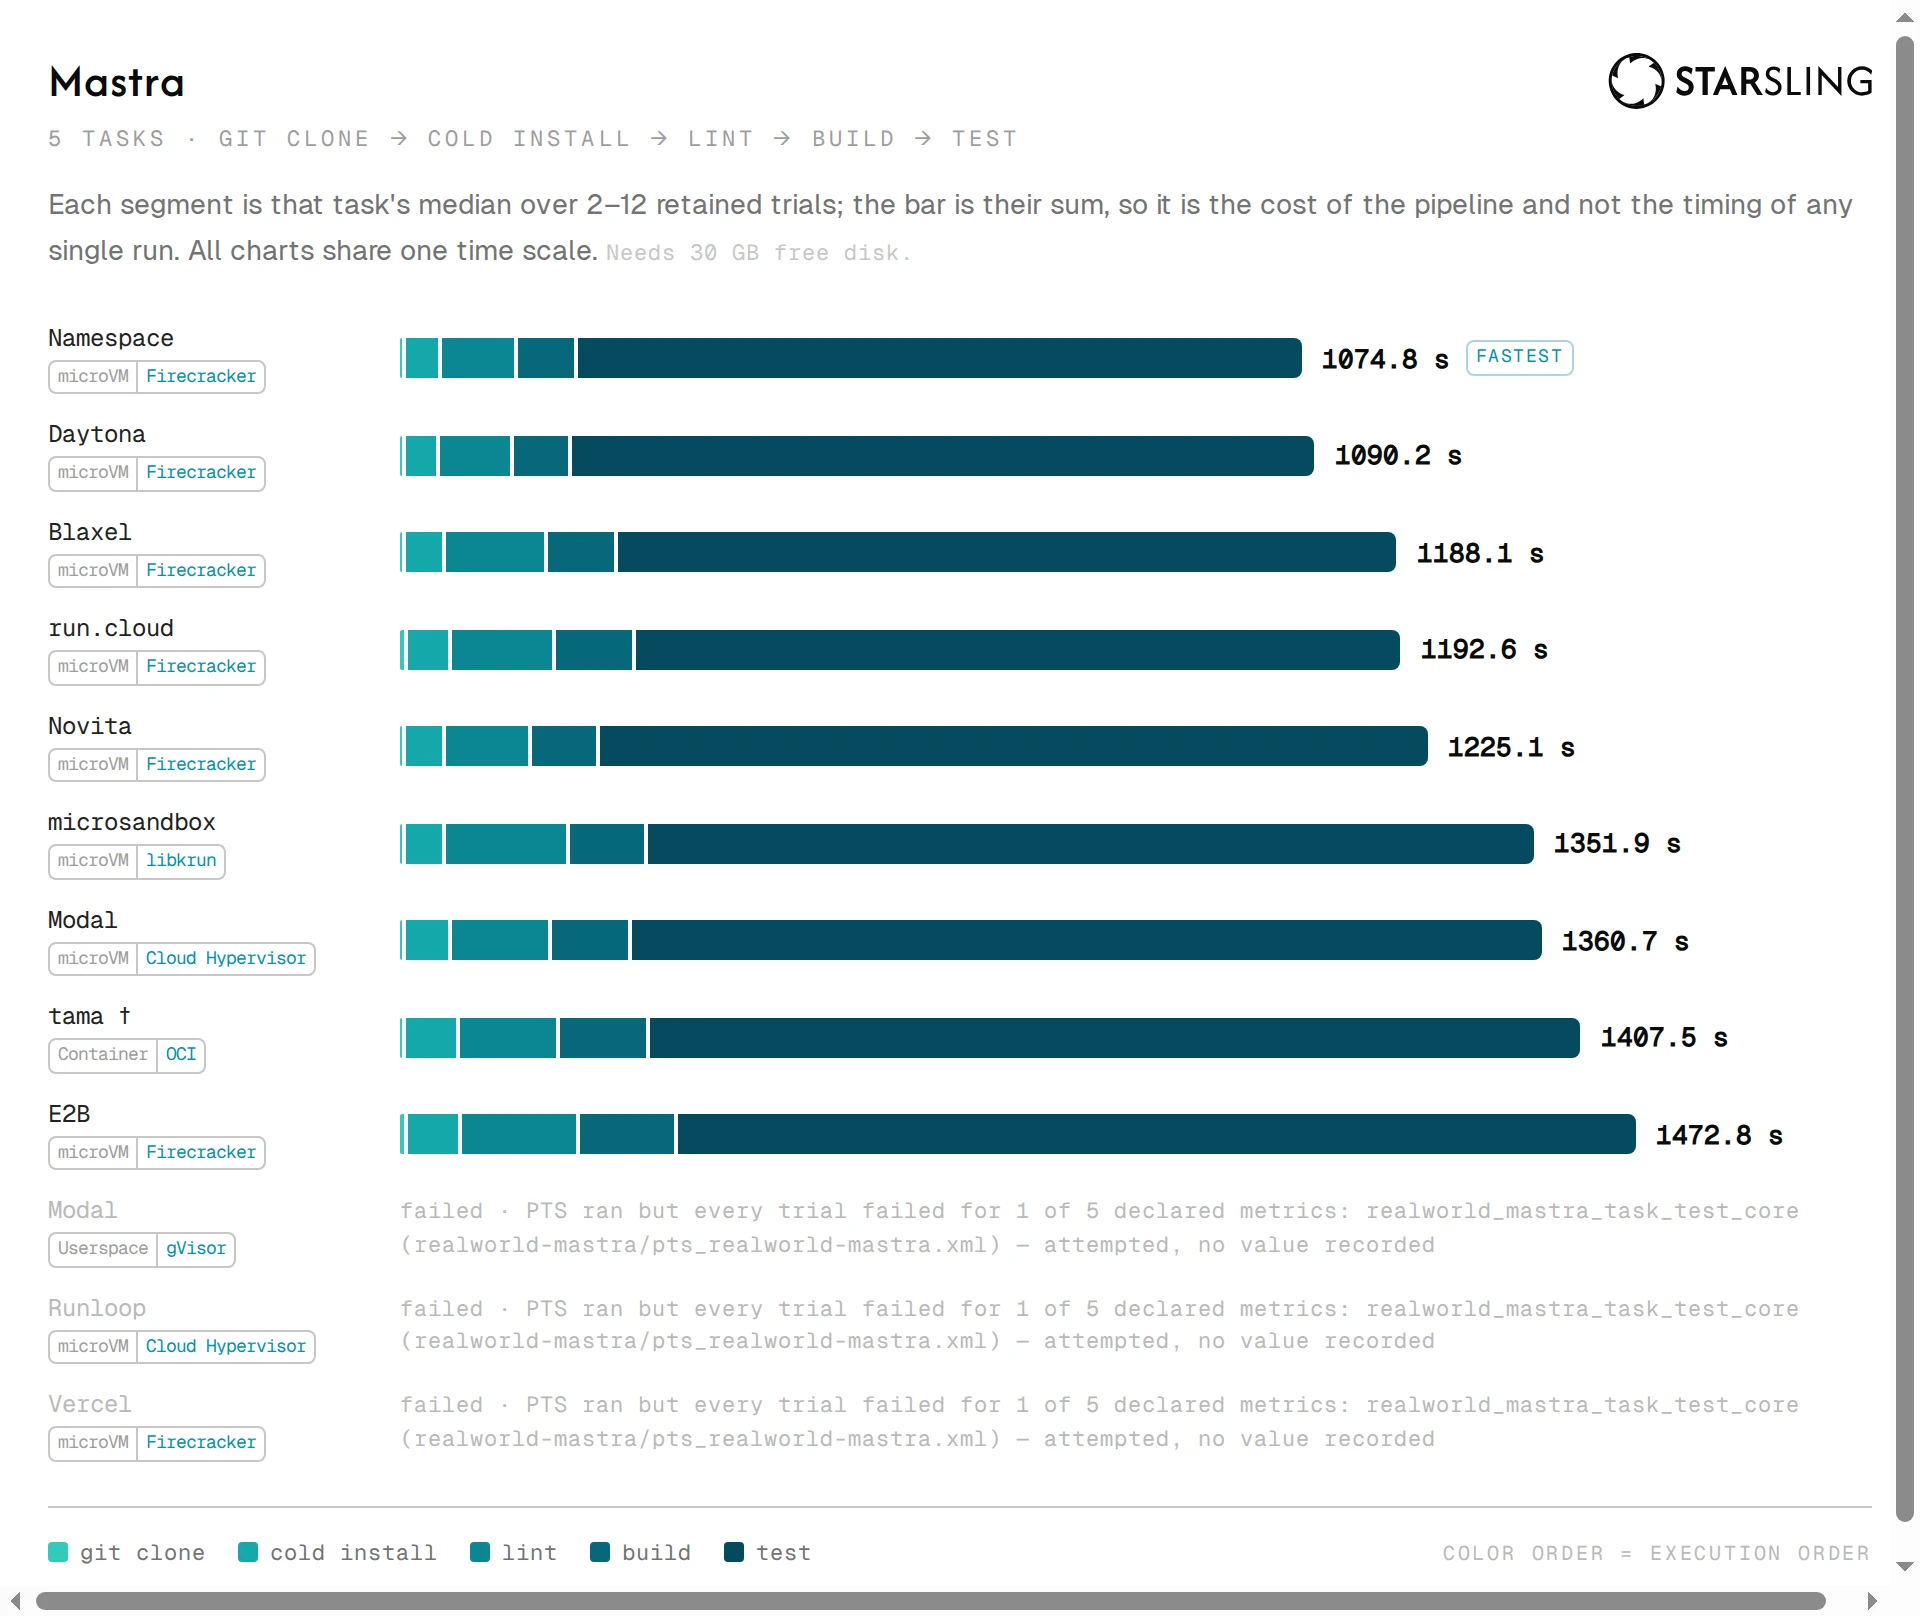
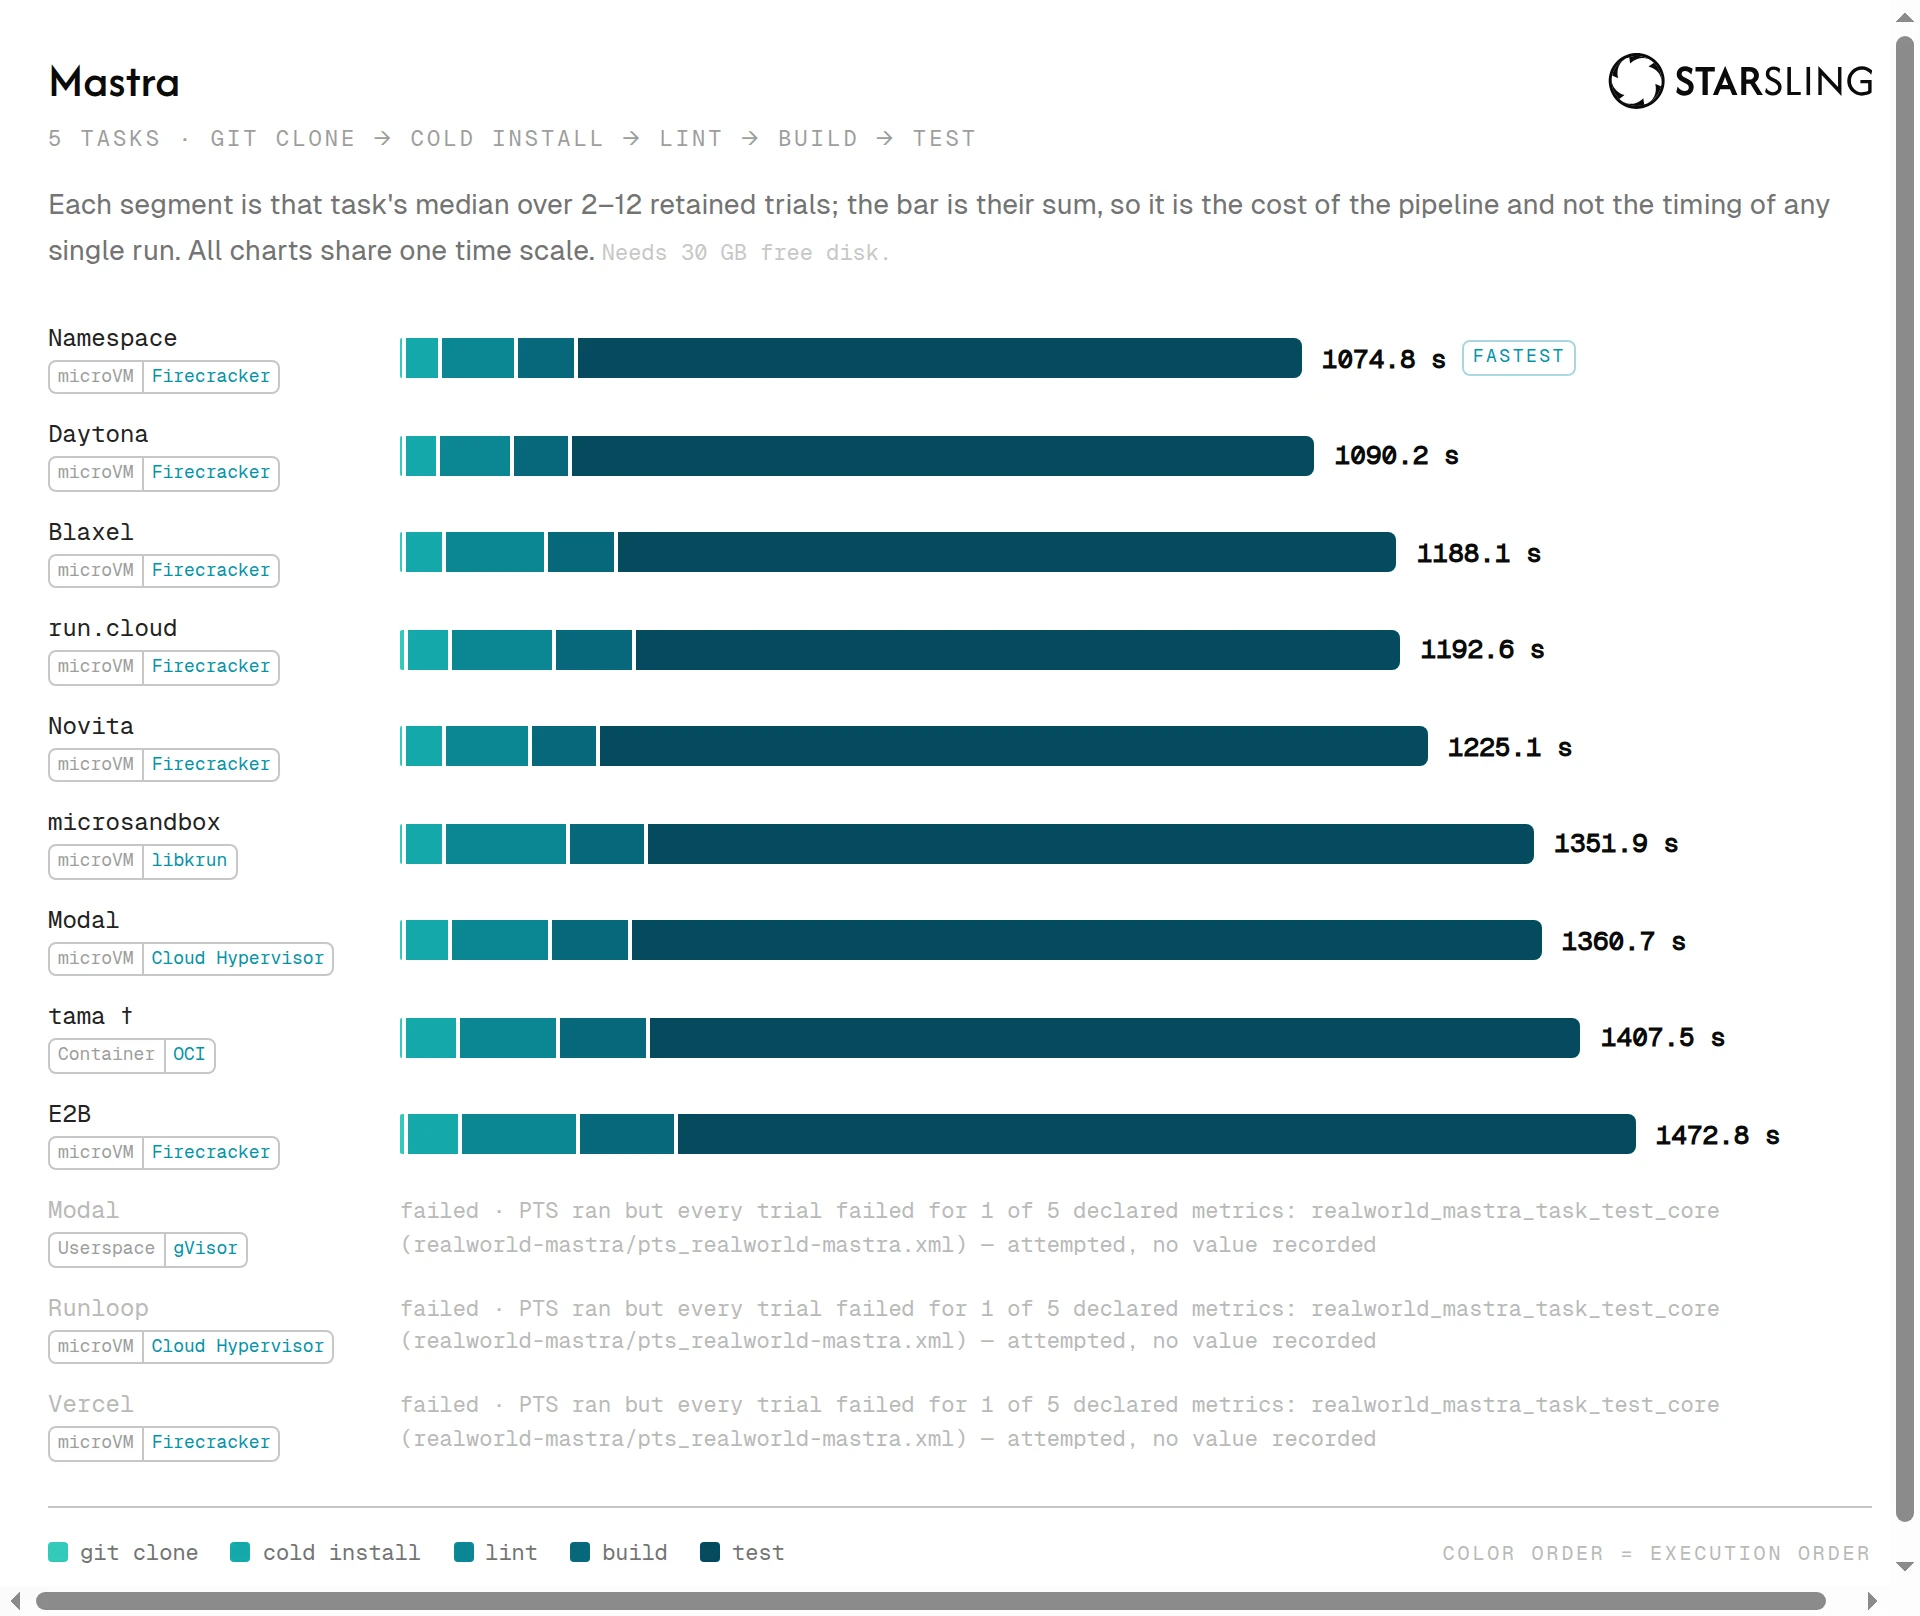
chore(leaderboard): regenerate from run 34804682438 with metric charts
`bun apps/cli/src/bin/leaderboard.ts data/dataset/runs/34804682438.json
LEADERBOARD.md` — 27 new metric charts under docs/figures/ (one per
ranked synthetic metric, named by catalog id) and the three pipeline
charts re-rasterised by the same Chrome. The Markdown links every chart;
the artifact gate holds the directory to exactly that set.

Claude-Session: https://claude.ai/code/session_01Xuh5srRQpooM58Q2o91SW3

diff --git a/LEADERBOARD.md b/LEADERBOARD.md
@@ -31,6 +31,11 @@ whole pipeline on one environment and each segment a task. Its per-task rankings
 intervals and trial counts every bar is built from — are still here, one triangle down: the charts
 are what the section is FOR, and the tables are how you check them.
 
+**Every synthetic metric is charted too.** Each dimension shows its headline metric's ranked bar
+chart above the triangle, and every other metric's chart sits beside its table inside. Bars are
+the same medians the tables print, best first, with the 95% interval as a whisker; each chart
+scales to its own largest value, so lengths compare within a chart and never across two.
+
 ## Providers in this run
 
 Each provider's isolation technology — the **declared** technology is authoritative; **detected**
@@ -506,6 +511,8 @@ _Namespace and Daytona (VM) share the top on this metric (lower is better)._
 
 ## cpu
 
+<img src="docs/figures/node_web_tooling_runs_per_s.webp" width="960" alt="Node.js web tooling: 12 environments ranked best-first, with 95% intervals">
+
 <details>
 <summary><strong>1 synthetic metric</strong> · headline: Node.js web tooling</summary>
 
@@ -543,6 +550,8 @@ IOPS · higher is better
 
 _Namespace leads · ~1.2× Blaxel on median (higher is better)._
 
+<img src="docs/figures/fio_type_random_read_engine_linux_aio_direct_no_block_size_4kb_job_count_1_disk_target_default_test_directory_iops.webp" width="960" alt="fio rand read 4KB, buffered (IOPS): 12 environments ranked best-first, with 95% intervals">
+
 | Rank | Provider | fio rand read 4KB, buffered (IOPS) (IOPS) | 95% bootstrap interval | Sandboxes | Trials | Note |
 | ---: | --- | ---: | ---: | ---: | ---: | --- |
 | 1 | Namespace | 66200 | 66200 – 69800 | 3 | 6 | — |
@@ -563,6 +572,8 @@ _Namespace leads · ~1.2× Blaxel on median (higher is better)._
 MB/s · higher is better
 
 _Namespace leads · ~1.2× Blaxel on median (higher is better)._
+
+<img src="docs/figures/fio_type_random_read_engine_linux_aio_direct_no_block_size_4kb_job_count_1_disk_target_default_test_directory_mb_per_s.webp" width="960" alt="fio rand read 4KB, buffered (MB/s): 12 environments ranked best-first, with 95% intervals">
 
 | Rank | Provider | fio rand read 4KB, buffered (MB/s) (MB/s) | 95% bootstrap interval | Sandboxes | Trials | Note |
 | ---: | --- | ---: | ---: | ---: | ---: | --- |
@@ -585,6 +596,8 @@ IOPS · higher is better
 
 _Blaxel leads · ~1.2× Novita on median (higher is better)._
 
+<img src="docs/figures/fio_type_random_write_engine_linux_aio_direct_no_block_size_4kb_job_count_1_disk_target_default_test_directory_iops.webp" width="960" alt="fio rand write 4KB, buffered (IOPS): 12 environments ranked best-first, with 95% intervals">
+
 | Rank | Provider | fio rand write 4KB, buffered (IOPS) (IOPS) | 95% bootstrap interval | Sandboxes | Trials | Note |
 | ---: | --- | ---: | ---: | ---: | ---: | --- |
 | 1 | Blaxel | 302500 | 294000 – 316000 | 3 | 6 | — |
@@ -605,6 +618,8 @@ _Blaxel leads · ~1.2× Novita on median (higher is better)._
 MB/s · higher is better
 
 _Blaxel leads · ~1.2× Novita on median (higher is better)._
+
+<img src="docs/figures/fio_type_random_write_engine_linux_aio_direct_no_block_size_4kb_job_count_1_disk_target_default_test_directory_mb_per_s.webp" width="960" alt="fio rand write 4KB, buffered (MB/s): 12 environments ranked best-first, with 95% intervals">
 
 | Rank | Provider | fio rand write 4KB, buffered (MB/s) (MB/s) | 95% bootstrap interval | Sandboxes | Trials | Note |
 | ---: | --- | ---: | ---: | ---: | ---: | --- |
@@ -627,6 +642,8 @@ IOPS · higher is better
 
 _Modal (gVisor) leads · ~2.0× Daytona (VM) on median (higher is better)._
 
+<img src="docs/figures/fio_type_sequential_read_engine_linux_aio_direct_no_block_size_1mb_job_count_1_disk_target_default_test_directory_iops.webp" width="960" alt="fio seq read 1MB, buffered (IOPS): 12 environments ranked best-first, with 95% intervals">
+
 | Rank | Provider | fio seq read 1MB, buffered (IOPS) (IOPS) | 95% bootstrap interval | Sandboxes | Trials | Note |
 | ---: | --- | ---: | ---: | ---: | ---: | --- |
 | 1 | Modal (gVisor) | 22250 | 18500 – 22750 | 3 | 6 | — |
@@ -647,6 +664,8 @@ _Modal (gVisor) leads · ~2.0× Daytona (VM) on median (higher is better)._
 MB/s · higher is better
 
 _Modal (gVisor) leads · ~2.0× Daytona (VM) on median (higher is better)._
+
+<img src="docs/figures/fio_type_sequential_read_engine_linux_aio_direct_no_block_size_1mb_job_count_1_disk_target_default_test_directory_mb_per_s.webp" width="960" alt="fio seq read 1MB, buffered (MB/s): 12 environments ranked best-first, with 95% intervals">
 
 | Rank | Provider | fio seq read 1MB, buffered (MB/s) (MB/s) | 95% bootstrap interval | Sandboxes | Trials | Note |
 | ---: | --- | ---: | ---: | ---: | ---: | --- |
@@ -669,6 +688,8 @@ IOPS · higher is better
 
 _Daytona (VM) leads · ~1.2× Namespace on median (higher is better)._
 
+<img src="docs/figures/fio_type_sequential_write_engine_linux_aio_direct_no_block_size_1mb_job_count_1_disk_target_default_test_directory_iops.webp" width="960" alt="fio seq write 1MB, buffered (IOPS): 12 environments ranked best-first, with 95% intervals">
+
 | Rank | Provider | fio seq write 1MB, buffered (IOPS) (IOPS) | 95% bootstrap interval | Sandboxes | Trials | Note |
 | ---: | --- | ---: | ---: | ---: | ---: | --- |
 | 1 | Daytona (VM) | 4990 | 4884 – 5429 | 3 | 6 | — |
@@ -689,6 +710,8 @@ _Daytona (VM) leads · ~1.2× Namespace on median (higher is better)._
 MB/s · higher is better
 
 _Daytona (VM) leads · ~1.2× Namespace on median (higher is better)._
+
+<img src="docs/figures/fio_type_sequential_write_engine_linux_aio_direct_no_block_size_1mb_job_count_1_disk_target_default_test_directory_mb_per_s.webp" width="960" alt="fio seq write 1MB, buffered (MB/s): 12 environments ranked best-first, with 95% intervals">
 
 | Rank | Provider | fio seq write 1MB, buffered (MB/s) (MB/s) | 95% bootstrap interval | Sandboxes | Trials | Note |
 | ---: | --- | ---: | ---: | ---: | ---: | --- |
@@ -711,6 +734,8 @@ bogo ops/s · higher is better
 
 _Daytona (VM) leads · ~1.3× Blaxel on median (higher is better)._
 
+<img src="docs/figures/hardlink_bogo_ops_per_s.webp" width="960" alt="Hardlink throughput: 12 environments ranked best-first, with 95% intervals">
+
 | Rank | Provider | Hardlink throughput (bogo ops/s) | 95% bootstrap interval | Sandboxes | Trials | Note |
 | ---: | --- | ---: | ---: | ---: | ---: | --- |
 | 1 | Daytona (VM) | 25.34 | 25.23 – 25.98 | 3 | 6 | — |
@@ -729,6 +754,8 @@ _Daytona (VM) leads · ~1.3× Blaxel on median (higher is better)._
 </details>
 
 ## memory
+
+<img src="docs/figures/stream_type_triad.webp" width="960" alt="STREAM Triad: 12 environments ranked best-first, with 95% intervals">
 
 <details>
 <summary><strong>4 synthetic metrics</strong> · headline: STREAM Triad</summary>
@@ -760,6 +787,8 @@ MB/s · higher is better
 
 _Daytona (VM) leads · ~1.7× tama on median (higher is better)._
 
+<img src="docs/figures/stream_type_add.webp" width="960" alt="STREAM Add: 12 environments ranked best-first, with 95% intervals">
+
 | Rank | Provider | STREAM Add (MB/s) | 95% bootstrap interval | Sandboxes | Trials | Note |
 | ---: | --- | ---: | ---: | ---: | ---: | --- |
 | 1 | Daytona (VM) | 177700 | 171400 – 179400 | 3 | 6 | — |
@@ -780,6 +809,8 @@ _Daytona (VM) leads · ~1.7× tama on median (higher is better)._
 MB/s · higher is better
 
 _Daytona (VM) leads · ~1.4× tama on median (higher is better)._
+
+<img src="docs/figures/stream_type_copy.webp" width="960" alt="STREAM Copy: 12 environments ranked best-first, with 95% intervals">
 
 | Rank | Provider | STREAM Copy (MB/s) | 95% bootstrap interval | Sandboxes | Trials | Note |
 | ---: | --- | ---: | ---: | ---: | ---: | --- |
@@ -802,6 +833,8 @@ MB/s · higher is better
 
 _Daytona (VM) leads · ~1.6× tama on median (higher is better)._
 
+<img src="docs/figures/stream_type_scale.webp" width="960" alt="STREAM Scale: 12 environments ranked best-first, with 95% intervals">
+
 | Rank | Provider | STREAM Scale (MB/s) | 95% bootstrap interval | Sandboxes | Trials | Note |
 | ---: | --- | ---: | ---: | ---: | ---: | --- |
 | 1 | Daytona (VM) | 169400 | 162500 – 171000 | 3 | 6 | — |
@@ -820,6 +853,8 @@ _Daytona (VM) leads · ~1.6× tama on median (higher is better)._
 </details>
 
 ## network
+
+<img src="docs/figures/iperf_server_address_localhost_server_port_5201_duration_10_seconds_test_tcp_parallel_1.webp" width="960" alt="iperf3 loopback TCP, 1 stream: 11 environments ranked best-first, 1 disclosed as unmeasured, with 95% intervals">
 
 <details>
 <summary><strong>5 synthetic metrics</strong> · headline: iperf3 loopback TCP, 1 stream</summary>
@@ -850,6 +885,8 @@ Mbits/sec · higher is better
 
 _Novita leads · ~1.4× Blaxel on median (higher is better)._
 
+<img src="docs/figures/iperf_server_address_localhost_server_port_5201_duration_10_seconds_test_tcp_parallel_10.webp" width="960" alt="iperf3 loopback TCP, 10 streams: 11 environments ranked best-first, 1 disclosed as unmeasured, with 95% intervals">
+
 | Rank | Provider | iperf3 loopback TCP, 10 streams (Mbits/sec) | 95% bootstrap interval | Sandboxes | Trials | Note |
 | ---: | --- | ---: | ---: | ---: | ---: | --- |
 | 1 | Novita | 157020 | 139488 – 161400 | 3 | 6 | — |
@@ -869,6 +906,8 @@ _Novita leads · ~1.4× Blaxel on median (higher is better)._
 Mbits/sec · higher is better
 
 _Modal (VM) leads on median (higher is better); see notes for how ranks are decided._
+
+<img src="docs/figures/iperf_server_address_localhost_server_port_5201_duration_10_seconds_test_udp_10000mbit_objective_parallel_1.webp" width="960" alt="iperf3 loopback UDP, 10G objective: 11 environments ranked best-first, 1 disclosed as unmeasured, with 95% intervals">
 
 | Rank | Provider | iperf3 loopback UDP, 10G objective (Mbits/sec) | 95% bootstrap interval | Sandboxes | Trials | Note |
 | ---: | --- | ---: | ---: | ---: | ---: | --- |
@@ -890,6 +929,8 @@ Mbits/sec · higher is better
 
 _Vercel Sandbox leads · ~1.3× Modal (gVisor) on median (higher is better)._
 
+<img src="docs/figures/iperf_wan_direction_download.webp" width="960" alt="iperf3 WAN download: 11 environments ranked best-first, 1 disclosed as unmeasured, with 95% intervals">
+
 | Rank | Provider | iperf3 WAN download (Mbits/sec) | 95% bootstrap interval | Sandboxes | Trials | Note |
 | ---: | --- | ---: | ---: | ---: | ---: | --- |
 | 1 | Vercel Sandbox | 9569 | 6640 – 10240 | 3 | 6 | — |
@@ -910,6 +951,8 @@ Mbits/sec · higher is better
 
 _Modal (VM) leads · ~1.3× Daytona (VM) on median (higher is better)._
 
+<img src="docs/figures/iperf_wan_direction_upload.webp" width="960" alt="iperf3 WAN upload: 11 environments ranked best-first, 1 disclosed as unmeasured, with 95% intervals">
+
 | Rank | Provider | iperf3 WAN upload (Mbits/sec) | 95% bootstrap interval | Sandboxes | Trials | Note |
 | ---: | --- | ---: | ---: | ---: | ---: | --- |
 | 1 | Modal (VM) | 5771 | 4516 – 6231 | 3 | 6 | — |
@@ -927,6 +970,8 @@ _Modal (VM) leads · ~1.3× Daytona (VM) on median (higher is better)._
 </details>
 
 ## system
+
+<img src="docs/figures/pybench_milliseconds.webp" width="960" alt="PyBench: 12 environments ranked best-first, with 95% intervals">
 
 <details>
 <summary><strong>7 synthetic metrics</strong> · headline: PyBench</summary>
@@ -958,6 +1003,8 @@ Seconds · lower is better
 
 _Namespace leads on median (lower is better); see notes for how ranks are decided._
 
+<img src="docs/figures/git_seconds.webp" width="960" alt="Git common operations: 12 environments ranked best-first, with 95% intervals">
+
 | Rank | Provider | Git common operations (Seconds) | 95% bootstrap interval | Sandboxes | Trials | Note |
 | ---: | --- | ---: | ---: | ---: | ---: | --- |
 | 1 | Namespace | 35.22 | 31.21 – 35.86 | 3 | 6 | — |
@@ -978,6 +1025,8 @@ _Namespace leads on median (lower is better); see notes for how ranks are decide
 TPS · higher is better
 
 _Blaxel leads on median (higher is better); see notes for how ranks are decided._
+
+<img src="docs/figures/pgbench_scaling_factor_100_clients_50_mode_read_only.webp" width="960" alt="pgbench RO (s100, 50c): 12 environments ranked best-first, with 95% intervals">
 
 | Rank | Provider | pgbench RO (s100, 50c) (TPS) | 95% bootstrap interval | Sandboxes | Trials | Note |
 | ---: | --- | ---: | ---: | ---: | ---: | --- |
@@ -1000,6 +1049,8 @@ ms · lower is better
 
 _Blaxel leads on median (lower is better); see notes for how ranks are decided._
 
+<img src="docs/figures/pgbench_scaling_factor_100_clients_50_mode_read_only_average_latency.webp" width="960" alt="pgbench RO latency (s100, 50c): 12 environments ranked best-first, with 95% intervals">
+
 | Rank | Provider | pgbench RO latency (s100, 50c) (ms) | 95% bootstrap interval | Sandboxes | Trials | Note |
 | ---: | --- | ---: | ---: | ---: | ---: | --- |
 | 1 | Blaxel | 0.1545 | 0.1505 – 0.1565 | 3 | 6 | — |
@@ -1020,6 +1071,8 @@ _Blaxel leads on median (lower is better); see notes for how ranks are decided._
 TPS · higher is better
 
 _Novita leads · ~1.1× Namespace on median (higher is better)._
+
+<img src="docs/figures/pgbench_scaling_factor_100_clients_50_mode_read_write.webp" width="960" alt="pgbench RW (s100, 50c): 12 environments ranked best-first, with 95% intervals">
 
 | Rank | Provider | pgbench RW (s100, 50c) (TPS) | 95% bootstrap interval | Sandboxes | Trials | Note |
 | ---: | --- | ---: | ---: | ---: | ---: | --- |
@@ -1042,6 +1095,8 @@ ms · lower is better
 
 _Novita leads · Namespace is ~1.1× higher (lower is better)._
 
+<img src="docs/figures/pgbench_scaling_factor_100_clients_50_mode_read_write_average_latency.webp" width="960" alt="pgbench RW latency (s100, 50c): 12 environments ranked best-first, with 95% intervals">
+
 | Rank | Provider | pgbench RW latency (s100, 50c) (ms) | 95% bootstrap interval | Sandboxes | Trials | Note |
 | ---: | --- | ---: | ---: | ---: | ---: | --- |
 | 1 | Novita | 1.766 | 1.675 – 1.786 | 3 | 6 | — |
@@ -1063,6 +1118,8 @@ Seconds · lower is better
 
 _Daytona (VM) leads · Blaxel is ~1.2× higher (lower is better)._
 
+<img src="docs/figures/sqlite_speedtest_seconds.webp" width="960" alt="SQLite Speedtest: 12 environments ranked best-first, with 95% intervals">
+
 | Rank | Provider | SQLite Speedtest (Seconds) | 95% bootstrap interval | Sandboxes | Trials | Note |
 | ---: | --- | ---: | ---: | ---: | ---: | --- |
 | 1 | Daytona (VM) | 31.05 | 30.89 – 32.85 | 3 | 6 | — |
@@ -1081,6 +1138,8 @@ _Daytona (VM) leads · Blaxel is ~1.2× higher (lower is better)._
 </details>
 
 ## economics
+
+<img src="docs/figures/usd_per_hour.webp" width="960" alt="Hourly cost: 5 environments ranked best-first, with 95% intervals">
 
 ### Hourly cost _(headline)_
 
